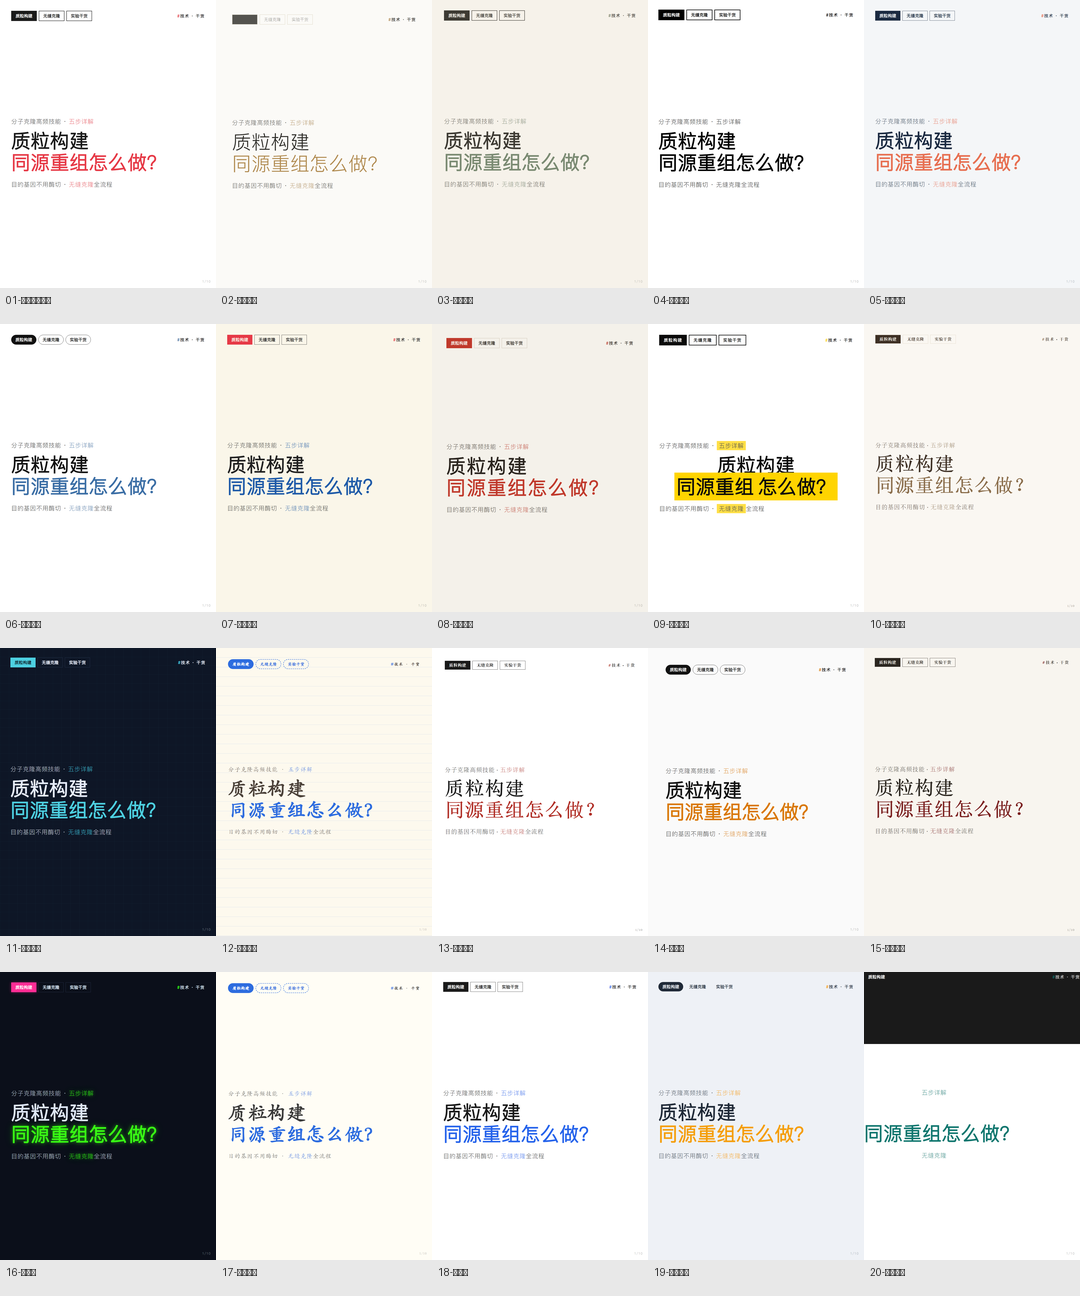
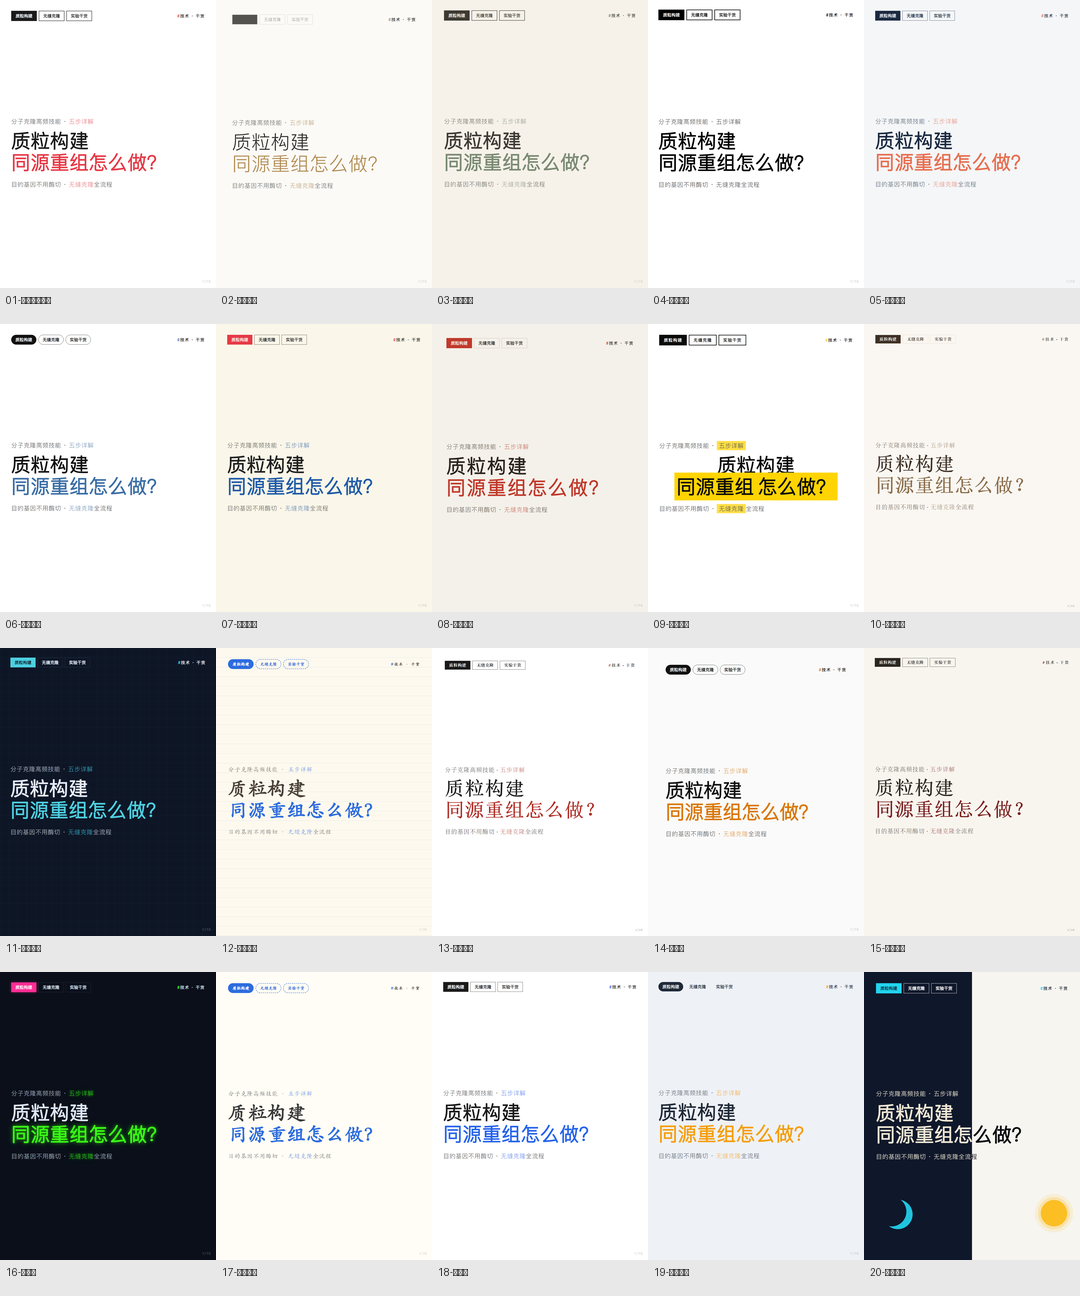
feat: split v2 - Day/Night split with mix-blend-mode cross-screen titles
- Split redesign: cover uses 50/50 linear-gradient (deep ink blue | warm white)
- mix-blend-mode: difference on cover/end c-h1 + c-sub -> cross-screen half-white-half-black effect
- Content blocks: each is a 'left dark right light' mini split card (40% deep blue left, 60% white right with fluorescent cyan accents)
- :has() selectors for step-dir/tip/note-row to prevent flex-split layout breaking
- Day/night decorations: cyan crescent moon (left) + amber sun (right) on cover
- End card: vertical 40/60 split so LOGO/CTA land in warm white area
- 200 pages (20 styles x 10 pages) all pass QA

Changed region(s): [[0.7944, 0.7407, 1.0, 0.9877], [0.9472, 0.9259, 1.0, 0.9568]]

diff --git a/assets/card-template.html b/assets/card-template.html
@@ -46,7 +46,7 @@
   .t-sketch    { --bg:#fffdf5; --ink:#3a3a3a; --accent:#2d6cdf; --line:#b9b9b9; --soft:#fffaf0; --radius:0px; --weight-d:700; --weight-b:400; --font-d:"Kaiti SC","STKaiti","楷体",serif; --font-b:"Kaiti SC","STKaiti","楷体",serif; --pad:56px 60px 46px; --sep-w:2px; }
   .t-timeline  { --bg:#fff; --ink:#1a1a1a; --accent:#2563eb; --line:#d8dde6; --soft:#f5f7fb; --weight-d:800; --weight-b:400; --pad:50px 56px 44px; --sep-w:1px; }
   .t-cards     { --bg:#eef1f6; --ink:#1f2937; --accent:#f59e0b; --line:#dfe3ea; --soft:#fff; --soft2:#fff; --radius:16px; --weight-d:800; --weight-b:400; --pad:50px 52px 44px; --sep-w:0px; --shadow:0 6px 24px rgba(30,40,60,.10); }
-  .t-split     { --bg:#fff; --ink:#1a1a1a; --accent:#0f766e; --line:#cfd8d4; --soft:#f0f6f4; --weight-d:800; --weight-b:400; --pad:0px; --sep-w:1px; }
+  .t-split     { --bg:#F7F5F0; --ink:#0F172A; --accent:#22D3EE; --accent2:#FBBF24; --line:#0F172A; --soft:#0F172A; --soft2:#fff; --weight-d:900; --weight-b:500; --pad:56px 60px 46px; --sep-w:2px; --radius:0px; }
 
 
   /* ============ 通用组件（基于变量） ============ */
@@ -121,6 +121,8 @@
   .fig-cap { text-align: center; font-size: 20px; opacity: .5; margin-top: 12px; letter-spacing: .04em; }
 
   /* 封面 / 封底 */
+  .split-moon, .split-sun { display: none; }
+  .cover-only { position: relative; }
   .cover-only .cover-main { flex: 1; display: flex; flex-direction: column; justify-content: center; }
   .cover-only .cover-main .c-h1 { font-size: 96px; }
   .cta-btn { display: inline-block; background: var(--accent); color: #fff; font-size: 44px; font-weight: 800; padding: 24px 64px; letter-spacing: .2em; border-radius: var(--radius); }
@@ -260,22 +262,78 @@
   .t-cards .step-dir { background: var(--soft2); border-radius: var(--radius); box-shadow: var(--shadow); padding: 20px 24px; margin-bottom: 10px; border-bottom: none; }
   .t-cards .step-dir .dn { color: var(--accent); }
 
-  /* 20 Split 分屏：标题区深色 + 内容区浅色 */
-  .t-split { background: linear-gradient(180deg, var(--ink) 0%, var(--ink) 25%, var(--bg) 25%, var(--bg) 100%); }
-  .t-split .c-h1 { color: #fff; }
-  .t-split .c-h1 b, .t-split .hl { color: var(--accent); }
-  .t-split .c-sub { color: rgba(255,255,255,.8); }
-  .t-split .c-label { color: rgba(255,255,255,.75); }
-  .t-split .step-no { background: var(--accent); border-color: var(--accent); color: #fff; }
-  .t-split .c-block { border-top: 1px solid var(--line); }
-  .t-split .c-block-t::before { background: var(--accent); }
-  .t-split .step-block { border-top: 1px solid var(--line); }
-  .t-split .step-title::before { background: var(--accent); }
-  .t-split .param .pv { color: var(--accent); }
-  .t-split .step-line b { color: var(--accent); }
-  .t-split .tip { border-color: var(--accent); }
-  .t-split .cta-btn { background: var(--accent); }
-  .t-split .pill.c-tag { border-color: rgba(255,255,255,.5); color: #fff; }
+  /* 20 Split 分屏 · 昼夜对切：左右对半 + 分屏内容卡（v2 大胆版） */
+  /* 内容页背景：暖白 + 极淡中缝线（暗示分屏轴） */
+  .t-split { background-image: linear-gradient(90deg, transparent calc(50% - 1px), rgba(15,23,42,.09) calc(50% - 1px), rgba(15,23,42,.09) calc(50% + 1px), transparent calc(50% + 1px)); }
+  .t-split .step-no { background: #0F172A; border: 2.5px solid #0F172A; color: #22D3EE; font-size: 27px; font-weight: 900; padding: 13px 28px; clip-path: polygon(0 0, 100% 0, calc(100% - 22px) 100%, 0 100%); }
+  .t-split .pill.c-tag { background: #22D3EE; border-color: #22D3EE; color: #0F172A; font-weight: 800; }
+  .t-split .c-label { color: #0F172A; }
+  /* 内容块 = 左深右浅小分屏 */
+  .t-split .c-block { display: flex; align-items: stretch; padding: 0; border: 2px solid #0F172A; margin-bottom: 16px; background: #fff; }
+  .t-split .c-block-t { flex: 0 0 40%; margin: 0; padding: 28px 26px; background: #0F172A; color: #fff; justify-content: center; }
+  .t-split .c-block-t::before { background: #22D3EE; width: 10px; height: 34px; }
+  .t-split .c-block-p { flex: 1; padding: 28px 30px; color: #1a1a1a; opacity: 1; }
+  .t-split .c-block-p b { color: #0F172A; background: #22D3EE; padding: 0 7px; }
+  /* 非纯文本块（列表/网格/配图）恢复整卡白底 */
+  .t-split .c-block:has(.step-line), .t-split .c-block:has(.step-dir), .t-split .c-block:has(.why-grid), .t-split .c-block:has(.param-grid), .t-split .c-block:has(.recape), .t-split .c-block:has(.fig-wrap), .t-split .c-block:has(.tip), .t-split .c-block:has(.note-row) { display: block; }
+  .t-split .c-block:has(.step-line) .c-block-t, .t-split .c-block:has(.step-dir) .c-block-t, .t-split .c-block:has(.why-grid) .c-block-t, .t-split .c-block:has(.param-grid) .c-block-t, .t-split .c-block:has(.recape) .c-block-t, .t-split .c-block:has(.fig-wrap) .c-block-t, .t-split .c-block:has(.tip) .c-block-t, .t-split .c-block:has(.note-row) .c-block-t { flex: none; background: transparent; color: #0F172A; padding: 24px 26px 10px; }
+  .t-split .c-block:has(.step-line) .c-block-t::before, .t-split .c-block:has(.step-dir) .c-block-t::before, .t-split .c-block:has(.why-grid) .c-block-t::before, .t-split .c-block:has(.param-grid) .c-block-t::before, .t-split .c-block:has(.recape) .c-block-t::before, .t-split .c-block:has(.fig-wrap) .c-block-t::before, .t-split .c-block:has(.tip) .c-block-t::before, .t-split .c-block:has(.note-row) .c-block-t::before { background: #0F172A; }
+  .t-split .c-block:has(.step-dir) { padding: 26px 30px 14px; }
+  .t-split .c-block:has(.tip) { padding: 26px 30px; }
+  .t-split .c-block:has(.note-row) { padding: 26px 30px 12px; }
+  .t-split .c-block:has(.fig-wrap) { padding: 26px 30px 18px; }
+  .t-split .c-block:has(.fig-wrap) .fig-wrap { margin: 0 22px 22px; }
+  /* 步骤行 */
+  .t-split .step-line { padding: 30px 24px; border-bottom: 1px solid #0F172A; color: #1a1a1a; opacity: 1; }
+  .t-split .step-line b { min-width: 40px; font-size: 30px; color: #0F172A; background: #22D3EE; text-align: center; padding: 2px 8px; }
+  /* 参数卡 */
+  .t-split .param { border: 2px solid #0F172A; background: #fff; }
+  .t-split .param .pv { color: #0F172A; background: #22D3EE; display: inline-block; padding: 4px 16px; }
+  .t-split .param .pl { color: #1a1a1a; opacity: .75; }
+  /* 优点格 */
+  .t-split .why { border-top: none; background: #0F172A; padding: 22px 18px; }
+  .t-split .why .wn { color: #22D3EE; }
+  .t-split .why .wd { color: rgba(255,255,255,.78); }
+  /* 五步目录 */
+  .t-split .step-dir { padding: 24px 6px; border-bottom: 1px solid #0F172A; }
+  .t-split .step-dir .dn { color: #0F172A; background: #22D3EE; min-width: 96px; text-align: center; padding: 4px 0; }
+  .t-split .step-dir .dt { color: #1a1a1a; }
+  .t-split .step-dir .dd { color: #555; opacity: 1; }
+  /* 速记条 */
+  .t-split .recape-item { border: 2px solid #0F172A; background: #fff; }
+  .t-split .recape-item .r-n { color: #0F172A; background: #22D3EE; display: inline-block; padding: 2px 10px; }
+  /* 提示条 */
+  .t-split .tip { background: #0F172A; border: 2px solid #0F172A; border-left: 10px solid #22D3EE; color: #fff; }
+  .t-split .tip b { color: #22D3EE; }
+  /* 提醒行 */
+  .t-split .note-row { padding: 26px 4px; border-bottom: 1px solid #0F172A; color: #1a1a1a; }
+  .t-split .note-bullet { color: #0F172A; background: #22D3EE; font-size: 24px; line-height: 1.4; padding: 2px 8px; }
+  /* 配图 */
+  .t-split .fig { border: 2px solid #0F172A; background: #fff; }
+  .t-split .fig-item { border: 1px solid #d5d2ca; background: #fff; }
+  .t-split .fig-cap { color: #555; opacity: 1; font-weight: 600; }
+  /* 标签 */
+  .t-split .c-tag { border-color: #0F172A; color: #0F172A; }
+  .t-split .c-tag:first-child { background: #0F172A; color: #22D3EE; }
+  /* 按钮 */
+  .t-split .cta-btn { background: #22D3EE; color: #0F172A; box-shadow: 8px 8px 0 #0F172A; }
+  /* 封面：左右对半 + difference 跨屏标题 + 日月装饰 */
+  .t-split.cover-only { background: linear-gradient(90deg, #0F172A 0%, #0F172A 50%, #F7F5F0 50%, #F7F5F0 100%); }
+  .t-split.cover-only .c-tags .c-tag { border-color: rgba(255,255,255,.65); color: #fff; }
+  .t-split.cover-only .c-tags .c-tag:first-child { background: #22D3EE; border-color: #22D3EE; color: #0F172A; }
+  .t-split.cover-only .c-label { color: #0F172A; }
+  .t-split.cover-only .c-sub { color: #fff; mix-blend-mode: difference; opacity: .95; }
+  .t-split.cover-only .c-h1 { color: #fff; mix-blend-mode: difference; }
+  .t-split.cover-only .c-h1 b, .t-split.cover-only .hl { color: #fff; }
+  .t-split.cover-only .card-index { color: #fff; }
+  .t-split .split-moon, .t-split .split-sun { display: none; }
+  .t-split.cover-only .split-moon { display: block; position: absolute; left: 64px; bottom: 168px; width: 148px; height: 148px; border-radius: 50%; box-shadow: 34px 0 0 0 #22D3EE; transform: rotate(24deg); opacity: .92; }
+  .t-split.cover-only .split-sun { display: block; position: absolute; right: 64px; bottom: 168px; width: 132px; height: 132px; border-radius: 50%; background: #FBBF24; box-shadow: 0 0 0 14px rgba(251,191,36,.25), 0 0 0 30px rgba(251,191,36,.12); }
+  /* 封底：上深下浅，LOGO/按钮落暖白区 */
+  .t-split.cover-only.end-cover { background: linear-gradient(180deg, #0F172A 0%, #0F172A 40%, #F7F5F0 40%, #F7F5F0 100%); }
+  .t-split.cover-only.end-cover .c-label { color: #0F172A; }
+  .t-split.cover-only.end-cover .card-index { color: #0F172A; }
+  .t-split.cover-only.end-cover .logo-ige { filter: drop-shadow(0 6px 14px rgba(15,23,42,.18)); }
 
   /* 填充补足（衬线/分屏等布局下内容略矮，加大间距） */
   .t-magazine .c-block { padding: 36px 40px; }
@@ -290,13 +348,15 @@
   .t-newspaper .tip { padding: 26px 30px; }
   .t-newspaper .step-dir { padding: 22px 0; }
   .t-newspaper .note-row { padding: 34px 0; }
-  .t-split .c-block { padding: 38px 40px; margin-bottom: 18px; }
-  .t-split .step-line { padding: 24px 0; }
-  .t-split .tip { padding: 34px 38px; margin-bottom: 20px; }
-  .t-split .step-dir { padding: 26px 0; }
-  .t-split .note-row { padding: 34px 0; }
-  .t-split .recape-item { padding: 26px 8px; }
-  .t-split .fig-wrap { margin-top: 26px; }
+  .t-split .c-block { margin-bottom: 20px; }
+  .t-split .tip { padding: 30px 34px; margin-bottom: 20px; }
+  .t-split .step-dir { padding: 26px 4px; }
+  .t-split .step-dir .dd { margin-top: 2px; }
+  .t-split .note-row { padding: 28px 4px; }
+  .t-split .recape-item { padding: 24px 8px; }
+  .t-split .fig-wrap { margin: 4px 0 6px; }
+  .t-split .why { padding: 24px 18px; }
+  .t-split .why .wd { line-height: 1.55; }
   /* ============ 风格特有签名（override） ============ */
   /* Build：金线 + 超细 */
   .t-build .c-block-t { letter-spacing: .3em; color: var(--ink); opacity: .85; font-weight: 500; }
@@ -439,7 +499,7 @@ const STYLES = [
   { id: 'sketch',    cls: 't-sketch',    name: '手绘草稿 · 虚线涂鸦',     desc: 'Sketch · 手绘虚线 + 楷体' },
   { id: 'timeline',  cls: 't-timeline',  name: '时间线 · 左侧轴节点',     desc: 'Timeline · 圆点时间轴' },
   { id: 'cards',     cls: 't-cards',     name: '卡片堆叠 · 贴纸墙',       desc: 'Cards · 独立卡片 + 角标' },
-  { id: 'split',     cls: 't-split',     name: '分屏对比 · 深色标题区',   desc: 'Split · 上深下浅分屏' },
+  { id: 'split',     cls: 't-split',     name: '分屏对比 · 昼夜对切',     desc: 'Split · Day/Night 左右对半 + 分屏内容卡' },
 ];
 
 /* ============ 渲染 ============ */
@@ -469,12 +529,14 @@ function coverCard(S, p, i, total) {
       <div class="c-h1">${p.h1}</div>
       <div class="c-sub" style="margin-top:36px">${p.sub2}</div>
     </div>
+    <span class="split-moon"></span>
+    <span class="split-sun"></span>
     <span class="card-index">${i}/${total}</span>
   </div>`;
 }
 
 function endCard(S, p, i, total) {
-  return `<div class="card ${S.cls} cover-only">
+  return `<div class="card ${S.cls} cover-only end-cover">
     <div style="display:flex;align-items:center;justify-content:space-between;margin-bottom:30px">
       <div class="c-tags">${p.tags.map(t => `<span class="c-tag">${t}</span>`).join('')}</div>
       <span class="c-label">技术 · 干货</span>

diff --git a/README.md b/README.md
@@ -103,7 +103,7 @@ Xiaohongshu (RED) card generator as an AI Agent Skill — turn WeChat Official A
 | 17 | 手绘草稿 | 手绘虚线边框 + 楷体涂鸦感 |
 | 18 | 时间线 | 左侧圆点时间轴贯穿 |
 | 19 | 卡片堆叠 | 独立白卡片 + 角标 + 贴纸墙 |
-| 20 | 分屏对比 | 上深下浅分屏 + 标题区深色 |
+| 20 | 分屏对比 | 左右对半 + 标题 mix-blend-mode 跨中线 + 分屏内容卡 + 日月装饰 |
 
 ![20 种风格预览墙](screenshots/10-styles-wall.png)
 
